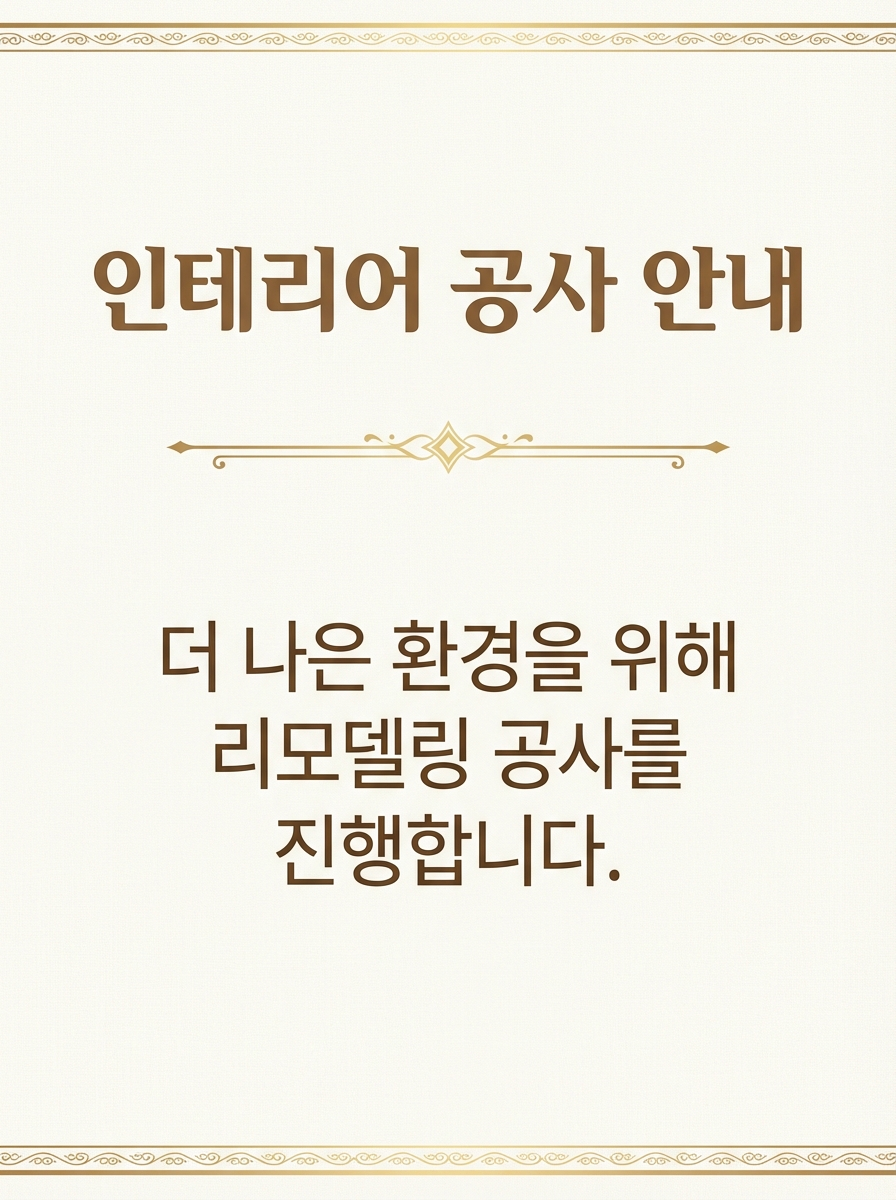
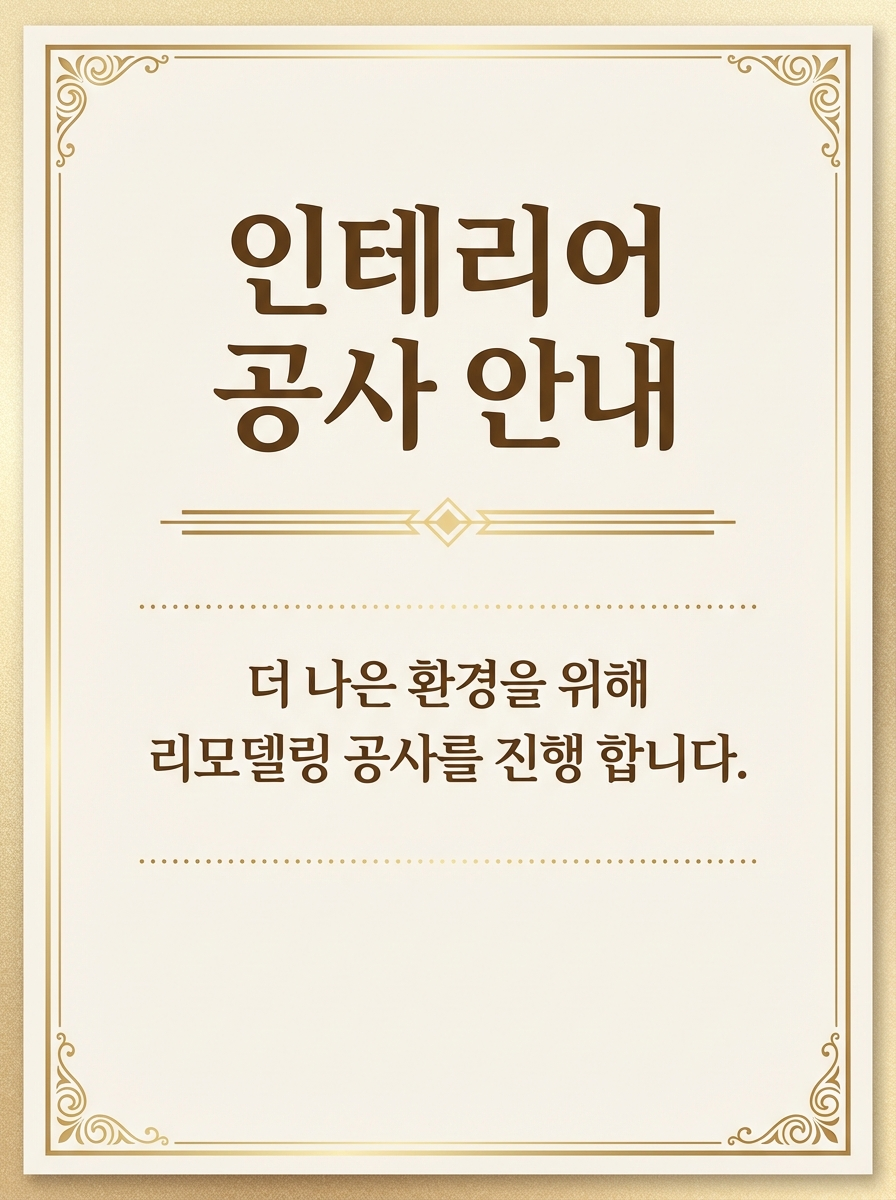
공지 6개 aiPrompt 전면 재작성: immersive 배경 + 프리뷰 재생성
기존: 워드 문서 느낌 (밋밋한 단색 배경)
변경: 진료일정 성공 패턴 적용

- clean_white: 차콜 헤더 블록 + 기하학 그리드 (Monocle 에디토리얼)
- soft_blue: 풀블리드 블루 그라데이션 + 보케 (삼성의료원급)
- warm_cream: 골드 시머 텍스처 + 다이아몬드 라인 (럭셔리 문구)
- mint_fresh: 유칼립투스 잎 월페이퍼 + 틸 헤더 블록 (웰니스)
- slate_modern: 다크 슬레이트 + 기하학 대각선 + 앰버 (Bloomberg급)
- peach_soft: 피치 그라데이션 + 보케 글로우 (카페 무드)

프리뷰 이미지 6장 3:4 재생성

https://claude.ai/code/session_0146MbTZpAY12j7EZ6V4viNe

Changed region(s): [[0.0, 0.0, 1.0, 1.0], [0.1562, 0.4933, 0.8438, 0.74], [0.1562, 0.4933, 0.2812, 0.5858]]

diff --git a/next-app/lib/categoryTemplates.ts b/next-app/lib/categoryTemplates.ts
@@ -804,7 +804,7 @@ Mobile readability: name 28pt+, credentials 12pt+.`,
     {
       id: "ntc_clean_white", name: "클린 화이트", color: "#374151", accent: "#111827", bg: "#ffffff",
       desc: "순백 배경 + 차콜 타이포 + 얇은 라인 — 가장 깔끔한 공지", layoutHint: "minimal",
-      aiPrompt: `[CRITICAL — THIS IS A PREMIUM NOTICE POSTER, NOT A WORD DOCUMENT]
+      aiPrompt: `[CRITICAL — THIS IS A PREMIUM DESIGNED POSTER, NOT A TEXT DOCUMENT]
 ⛔ STRICT CONTENT RULES:
 - DO NOT add any information the user did not provide.
 - DO NOT generate fake Korean text. If you cannot write real Korean, leave that area blank or use only the text the user provided.
@@ -812,25 +812,26 @@ Mobile readability: name 28pt+, credentials 12pt+.`,
 - DO NOT invent hospital names, phone numbers, addresses, or medical information.
 - ONLY use text that the user explicitly provided in their input.
 
-Korean hospital notice poster — Clean White Minimal theme.
+Korean hospital notice poster — Clean White Premium Minimal theme.
 
-BACKGROUND: Pure white (#ffffff). No texture, no pattern. Whiteness is the design.
+BACKGROUND: Pure white (#ffffff) base. Across ENTIRE background: subtle geometric thin lines forming large-scale grid at 3-4% opacity in light gray (#f3f4f6). Architectural depth like premium embossed stationery.
 
-TITLE (top 30%): LARGE bold charcoal (#111827), 40pt+, weight 900, sans-serif. Below: single thin line (1px, #e5e7eb, full width). ONLY decorative element.
+HEADER AREA (top 35%): Large solid charcoal (#1e293b) rectangular block spanning full width. Inside: notice title in MASSIVE bold white text (44pt+, weight 900). Dark block creates dramatic contrast — THIS is the design statement.
 
-CONTENT (middle 50%): Dark gray (#374151), 15pt. Line spacing 1.8. Items with thin left-border (2px, #e5e7eb). No bullet points.
+CONTENT AREA (middle 45%): White area below dark block. Charcoal (#374151) text, 15pt, generous spacing. Thin charcoal left-border accent (3px) alongside text block. Editorial magazine layout feel.
 
-FOOTER (bottom 20%): Light gray (#f9fafb) bg. Small gray (#6b7280) text. Thin line above.
+FOOTER (bottom 20%): Thin charcoal line (1.5px, full width). Small gray (#9ca3af) text.
 
-BANNED: No icons, no emojis, no colors except grayscale, no boxes. Pure typography + whitespace.
+MOOD: Monocle magazine or Kinfolk editorial. Dark header block on white = powerful minimal editorial.
 
-STRICT ANCHORS: Pure white, charcoal type, thin gray lines, extreme whitespace, Apple minimalism.
-Mobile readability: title 36pt+, body 14pt+.`,
+STRICT ANCHORS: Dark charcoal header block, massive white title, architectural grid background, editorial left-border, magazine minimalism.
+Mobile readability: title 40pt+, body 14pt+.`,
     },
+
     {
       id: "ntc_soft_blue", name: "소프트 블루", color: "#1e3a8a", accent: "#3b82f6", bg: "#eff6ff",
       desc: "연한 하늘색 배경 + 네이비 타이포 — 신뢰감 있는 공지", layoutHint: "blue",
-      aiPrompt: `[CRITICAL — THIS IS A PREMIUM NOTICE POSTER, NOT A WORD DOCUMENT]
+      aiPrompt: `[CRITICAL — THIS IS A PREMIUM DESIGNED POSTER, NOT A TEXT DOCUMENT]
 ⛔ STRICT CONTENT RULES:
 - DO NOT add any information the user did not provide.
 - DO NOT generate fake Korean text. If you cannot write real Korean, leave that area blank or use only the text the user provided.
@@ -838,27 +839,26 @@ Mobile readability: title 36pt+, body 14pt+.`,
 - DO NOT invent hospital names, phone numbers, addresses, or medical information.
 - ONLY use text that the user explicitly provided in their input.
 
-Korean hospital notice poster — Soft Blue Trust theme.
+Korean hospital notice poster — Soft Blue Immersive theme.
 
-BACKGROUND: Gradient — light blue (#dbeafe) at top to very light blue (#eff6ff) to white at bottom.
+BACKGROUND: Smooth blue gradient filling ENTIRE image — deep blue (#1e40af) at top through sky blue (#60a5fa) to very light blue (#eff6ff) at bottom. Across ENTIRE background: subtle soft circular bokeh in lighter blue (#93c5fd) at 8-12% opacity. Dreamy professional medical atmosphere.
 
-TITLE (top 35%): Bold deep navy (#1e3a8a), 38pt+. Thin blue line (1px, #93c5fd, width 30%) below.
+HEADER AREA (top 35%): On deep blue. MASSIVE bold white title (42pt+, weight 900). Thin white line (1px, width 25%, 60% opacity) below. Hospital name in light blue (#bfdbfe) small above.
 
-CONTENT (middle 45%): White frosted card (rounded 16px, 92% opacity). Deep navy text, 14pt. Blue (#bfdbfe) left-border (2px) per item.
+CONTENT CARD (middle 45%): White frosted card (rounded 20px, backdrop-blur, 90% opacity, blue-tinted shadow). Inside: deep navy (#1e3a8a) text, 14pt. Blue (#93c5fd) left-border accent (2px). Blue gradient visible AROUND and THROUGH card.
 
-FOOTER (bottom 20%): White. Small blue text.
+FOOTER (bottom 20%): Gradient continues. Small white/light blue text.
 
-SINGLE ACCENT: Tiny plus (+) in navy at 15% opacity, top-right.
+MOOD: Samsung Medical Center digital signage. Full-bleed IMMERSIVE blue atmosphere, not a strip of blue at top.
 
-BANNED: No medical illustrations. Blue gradient = trust.
-
-STRICT ANCHORS: Blue-to-white gradient, navy type, frosted card, blue left-border, medical trust.
-Mobile readability: title 34pt+, body 13pt+.`,
+STRICT ANCHORS: Full-bleed blue gradient, bokeh lights, frosted card on blue, massive white title, immersive medical atmosphere.
+Mobile readability: title 38pt+, body 13pt+.`,
     },
+
     {
       id: "ntc_warm_cream", name: "웜 크림", color: "#78583d", accent: "#c9a96e", bg: "#faf7f2",
       desc: "따뜻한 크림 배경 + 갈색 타이포 + 골드 악센트 — 고급 공지", layoutHint: "cream",
-      aiPrompt: `[CRITICAL — THIS IS A PREMIUM NOTICE POSTER, NOT A WORD DOCUMENT]
+      aiPrompt: `[CRITICAL — THIS IS A PREMIUM DESIGNED POSTER, NOT A TEXT DOCUMENT]
 ⛔ STRICT CONTENT RULES:
 - DO NOT add any information the user did not provide.
 - DO NOT generate fake Korean text. If you cannot write real Korean, leave that area blank or use only the text the user provided.
@@ -866,25 +866,26 @@ Mobile readability: title 34pt+, body 13pt+.`,
 - DO NOT invent hospital names, phone numbers, addresses, or medical information.
 - ONLY use text that the user explicitly provided in their input.
 
-Korean hospital notice poster — Warm Cream Premium theme.
+Korean hospital notice poster — Warm Cream Luxury theme.
 
-BACKGROUND: Warm ivory (#faf7f2). Subtle linen texture at 3% opacity.
+BACKGROUND: Rich warm ivory (#faf5ef) filling ENTIRE image. Subtle METALLIC GOLD SHIMMER texture across whole surface at 4-6% opacity — brushed gold leaf paper. Top and bottom: soft gold (#d4a853) gradient glow at edges (10% opacity). Entire poster feels like luxury invitation on gold-flecked paper.
 
-TITLE (top 30%): Warm brown (#78583d), 36pt+, serif feel. Gold (#c9a96e) decorative line (1px, width 25%) with diamond centered below.
+HEADER AREA (top 35%): Deep warm brown (#5c3d1e) title, 40pt+, serif feel. Below: two thin parallel gold (#c9a96e) lines (0.5px each, 3px gap, width 30%, centered) with small gold diamond centered between.
 
-CONTENT (middle 50%): Warm brown (#5c4a32), 14pt. Thin warm border-left (2px, #e8ddd0) per item.
+CONTENT AREA (middle 45%): Warm brown (#5c4a32) text, 14pt. Floats on gold-shimmer ivory — NO card. Items separated by thin gold dotted lines. Important words in darker brown.
 
-FOOTER (bottom 20%): Gold lines at top/bottom edges (full width, 0.5px). Small warm brown text.
+FOOTER (bottom 20%): Gold lines framing top/bottom edges (0.5px, full width). Small warm brown text.
 
-BANNED: No heavy frames. Luxury from warmth + texture + restrained gold.
+MOOD: Luxury hotel concierge notice on custom stationery. Gold shimmer IS the design.
 
-STRICT ANCHORS: Ivory/linen, warm brown serif title, gold diamond line, gilded borders, luxury warm.
-Mobile readability: title 32pt+, body 13pt+.`,
+STRICT ANCHORS: Gold shimmer across entire surface, warm brown serif title, parallel gold lines with diamond, gilded borders, luxury stationery.
+Mobile readability: title 36pt+, body 13pt+.`,
     },
+
     {
       id: "ntc_mint_fresh", name: "민트 프레시", color: "#0f766e", accent: "#10b981", bg: "#f0fdfa",
       desc: "민트 그라데이션 + 다크그린 타이포 — 상쾌한 공지", layoutHint: "mint",
-      aiPrompt: `[CRITICAL — THIS IS A PREMIUM NOTICE POSTER, NOT A WORD DOCUMENT]
+      aiPrompt: `[CRITICAL — THIS IS A PREMIUM DESIGNED POSTER, NOT A TEXT DOCUMENT]
 ⛔ STRICT CONTENT RULES:
 - DO NOT add any information the user did not provide.
 - DO NOT generate fake Korean text. If you cannot write real Korean, leave that area blank or use only the text the user provided.
@@ -892,25 +893,26 @@ Mobile readability: title 32pt+, body 13pt+.`,
 - DO NOT invent hospital names, phone numbers, addresses, or medical information.
 - ONLY use text that the user explicitly provided in their input.
 
-Korean hospital notice poster — Mint Fresh theme.
+Korean hospital notice poster — Mint Fresh Botanical theme.
 
-BACKGROUND: Soft mint gradient (#ecfdf5 to #f0fdfa). Single small leaf silhouette (#a7f3d0) at bottom-right at 8% opacity.
+BACKGROUND: Soft mint gradient filling ENTIRE image — light sage (#ecfdf5) through mint (#f0fdfa). Across ENTIRE background: scattered watercolor eucalyptus leaf shapes at 8-12% opacity in sage green (#a7f3d0). Various sizes and rotations. Immersive botanical wallpaper — NOT one leaf in corner, but gentle scatter across WHOLE surface.
 
-TITLE (top 30%): Dark teal (#0f766e), 36pt+, sans-serif. Thin emerald (#10b981) line (1px, width 20%) below.
+HEADER AREA (top 35%): Dark teal (#0f766e) solid rounded rectangle (rounded 16px, 85% width, centered). Inside: bold white title (38pt+). Dark teal block on mint = fresh contrast.
 
-CONTENT (middle 50%): White card (rounded 14px, border: 1px solid #d1fae5). Dark teal (#134e4a) text, 14pt. Emerald left-border (2px) per item.
+CONTENT CARD (middle 45%): White card (rounded 16px, natural shadow, border: 1px solid #d1fae5). Dark teal (#134e4a) text, 14pt. Emerald (#10b981) left-border accent (2px).
 
-FOOTER (bottom 20%): Mint continues. Small teal text. Thin emerald line above.
+FOOTER (bottom 20%): Mint continues with leaf scatter. Small dark teal text.
 
-BANNED: No leaves except ONE silhouette. Mint gradient = freshness.
+MOOD: Premium wellness clinic lobby. Scattered leaf wallpaper = lush and natural, not sterile.
 
-STRICT ANCHORS: Mint gradient, single leaf, dark teal type, emerald accents, white card, fresh mood.
-Mobile readability: title 32pt+, body 13pt+.`,
+STRICT ANCHORS: Immersive leaf scatter, dark teal header block, white card, emerald accents, botanical wellness.
+Mobile readability: title 34pt+, body 13pt+.`,
     },
+
     {
       id: "ntc_slate_modern", name: "슬레이트 모던", color: "#334155", accent: "#64748b", bg: "#f8fafc",
       desc: "연한 슬레이트 배경 + 기하학 라인 — 모던한 공지", layoutHint: "slate",
-      aiPrompt: `[CRITICAL — THIS IS A PREMIUM NOTICE POSTER, NOT A WORD DOCUMENT]
+      aiPrompt: `[CRITICAL — THIS IS A PREMIUM DESIGNED POSTER, NOT A TEXT DOCUMENT]
 ⛔ STRICT CONTENT RULES:
 - DO NOT add any information the user did not provide.
 - DO NOT generate fake Korean text. If you cannot write real Korean, leave that area blank or use only the text the user provided.
@@ -920,23 +922,24 @@ Mobile readability: title 32pt+, body 13pt+.`,
 
 Korean hospital notice poster — Slate Modern Geometric theme.
 
-BACKGROUND: Light slate (#f8fafc). Geometric grid lines (0.5px, #e2e8f0) at 4% opacity.
+BACKGROUND: Dark slate (#1e293b) filling ENTIRE image — rich deep warm dark gray-blue. Across ENTIRE background: subtle geometric diagonal lines at 4-6% opacity in lighter slate (#334155). Sophisticated dark geometric atmosphere like premium tech product page.
 
-TITLE (top 30%): Dark slate (#1e293b), 38pt+, weight 900, tight tracking. Short bold accent line (3px, 40px width) below.
+HEADER AREA (top 40%): MASSIVE bold white (#f1f5f9) title, 44pt+, weight 900, tight tracking. White POPS against dark slate — dramatic contrast is the design. Below: single thin amber (#d97706) line (2px, width 20%). Amber is ONLY color accent.
 
-CONTENT (middle 50%): Slate (#334155), 14pt. Items separated by thin lines (1px, #e2e8f0). Grid-like layout.
+CONTENT AREA (middle 40%): White (#e2e8f0) text, 14pt, on dark slate — NO card. Items with generous spacing (20px+). Important words pure white bold. Numbers in amber (#d97706).
 
-SIGNATURE: Small rotated diamond in slate (#94a3b8), 8x8px, bottom-right.
+FOOTER (bottom 20%): Thin amber line (1px). Small stone (#94a3b8) text.
 
-BANNED: No curves, no gradients, no warmth. Everything ANGULAR, GEOMETRIC, PRECISE.
+MOOD: Bloomberg terminal or Stripe website. Dark, technical, premium. Geometric pattern + amber = sophisticated modern.
 
-STRICT ANCHORS: Light slate, grid lines, dark slate type, bold accent line, diamond mark, Swiss precision.
-Mobile readability: title 34pt+, body 13pt+.`,
+STRICT ANCHORS: Dark slate, geometric diagonal pattern, massive white title, amber accent line, monochrome + amber, tech-premium.
+Mobile readability: title 40pt+, body 13pt+ (contrast 12:1+).`,
     },
+
     {
       id: "ntc_peach_soft", name: "피치 소프트", color: "#9a3412", accent: "#f97316", bg: "#fff7ed",
       desc: "연한 피치/살몬 배경 + 따뜻한 브라운 — 부드러운 공지", layoutHint: "peach",
-      aiPrompt: `[CRITICAL — THIS IS A PREMIUM NOTICE POSTER, NOT A WORD DOCUMENT]
+      aiPrompt: `[CRITICAL — THIS IS A PREMIUM DESIGNED POSTER, NOT A TEXT DOCUMENT]
 ⛔ STRICT CONTENT RULES:
 - DO NOT add any information the user did not provide.
 - DO NOT generate fake Korean text. If you cannot write real Korean, leave that area blank or use only the text the user provided.
@@ -946,18 +949,18 @@ Mobile readability: title 34pt+, body 13pt+.`,
 
 Korean hospital notice poster — Peach Soft Warm theme.
 
-BACKGROUND: Soft gradient — light peach (#fed7aa) at top through warm cream (#fff7ed) to white. Subtle bokeh circles (#ffedd5) at 6-8% opacity.
+BACKGROUND: Warm gradient filling ENTIRE image — soft peach (#fdba74) at top through warm cream (#fff7ed) to near-white (#fffbf5) at bottom. Across ENTIRE background: subtle soft circular bokeh (large blurred circles) in lighter peach (#fed7aa) at 10-15% opacity. Multiple sizes. Dreamy warm sunset glow across whole surface.
 
-TITLE (top 35%): Deep warm brown (#9a3412), 36pt+, rounded sans-serif. Thin coral (#fb923c) line (1px, width 20%) below.
+HEADER AREA (top 35%): Deep brown (#78350f) title, 40pt+, rounded sans-serif. Friendly inviting. Below: thin coral (#fb923c) line (2px, width 20%). Hospital name in warm brown small above.
 
-CONTENT (middle 45%): White card with VERY rounded corners (22px), warm shadow. Warm brown (#78350f), 14pt. Coral (#fdba74) left-border (2px) per item.
+CONTENT CARD (middle 45%): White card VERY rounded corners (24px), warm shadow (rgba(249,115,22,0.12)). Warm brown (#78350f) text, 14pt. Coral (#fdba74) left-border (3px). Everything rounded, warm, approachable.
 
-FOOTER (bottom 20%): Warm cream. Small warm brown text.
+FOOTER (bottom 20%): Gradient to cream. Small warm brown text.
 
-BANNED: No sharp edges. Everything rounded and soft. No corporate coldness.
+MOOD: Premium cafe menu or boutique clinic notice. Immersive peach glow with bokeh = warm and special, not clinical.
 
-STRICT ANCHORS: Peach-to-cream gradient, bokeh glow, very rounded card, warm brown type, coral accents, friendly warm.
-Mobile readability: title 32pt+, body 13pt+.`,
+STRICT ANCHORS: Immersive peach gradient, bokeh across surface, deep brown title, very rounded card, coral accents, warm friendly.
+Mobile readability: title 36pt+, body 13pt+.`,
     },
   ],
 
